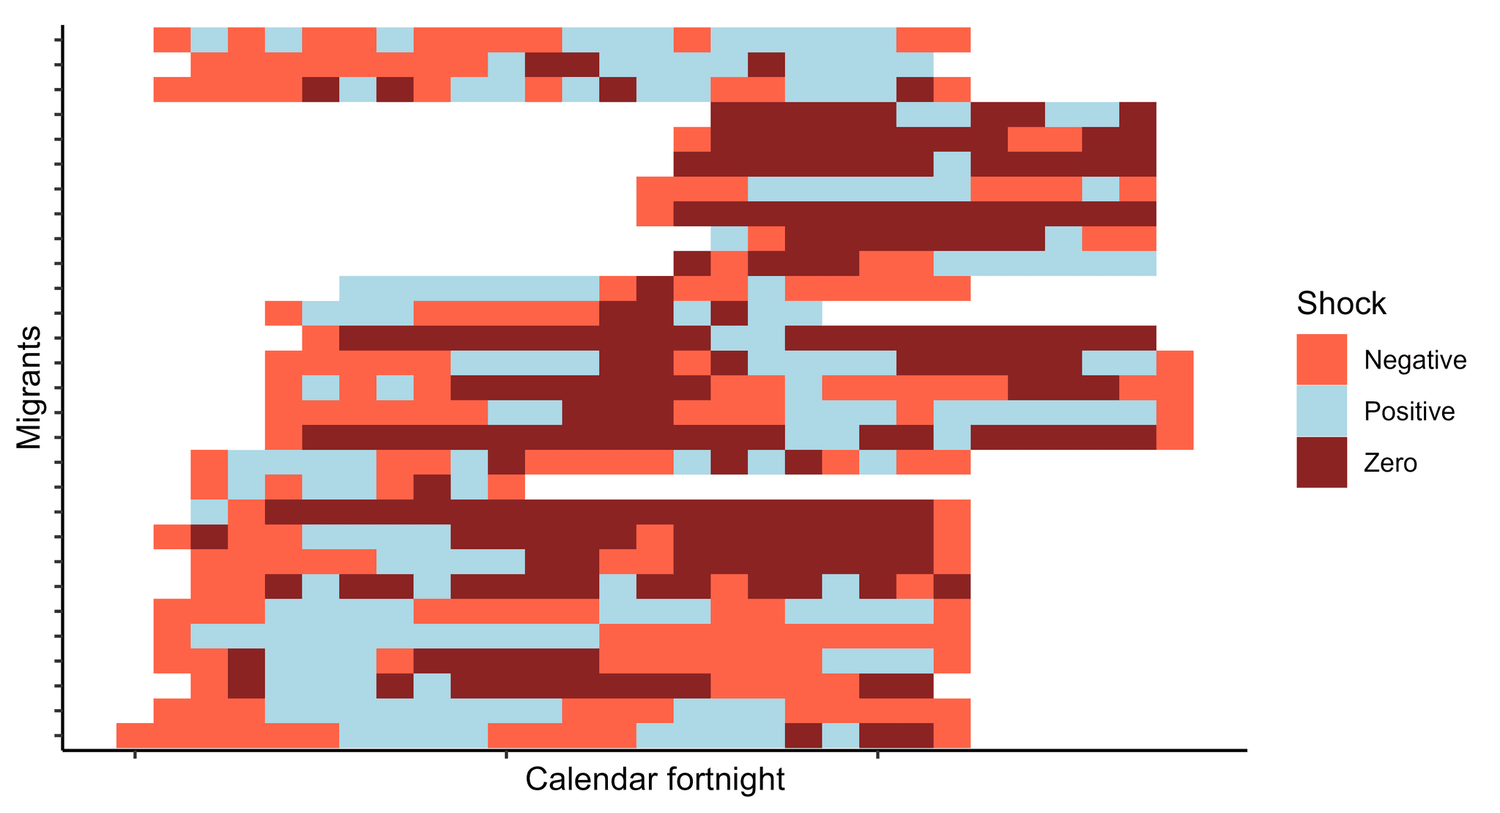
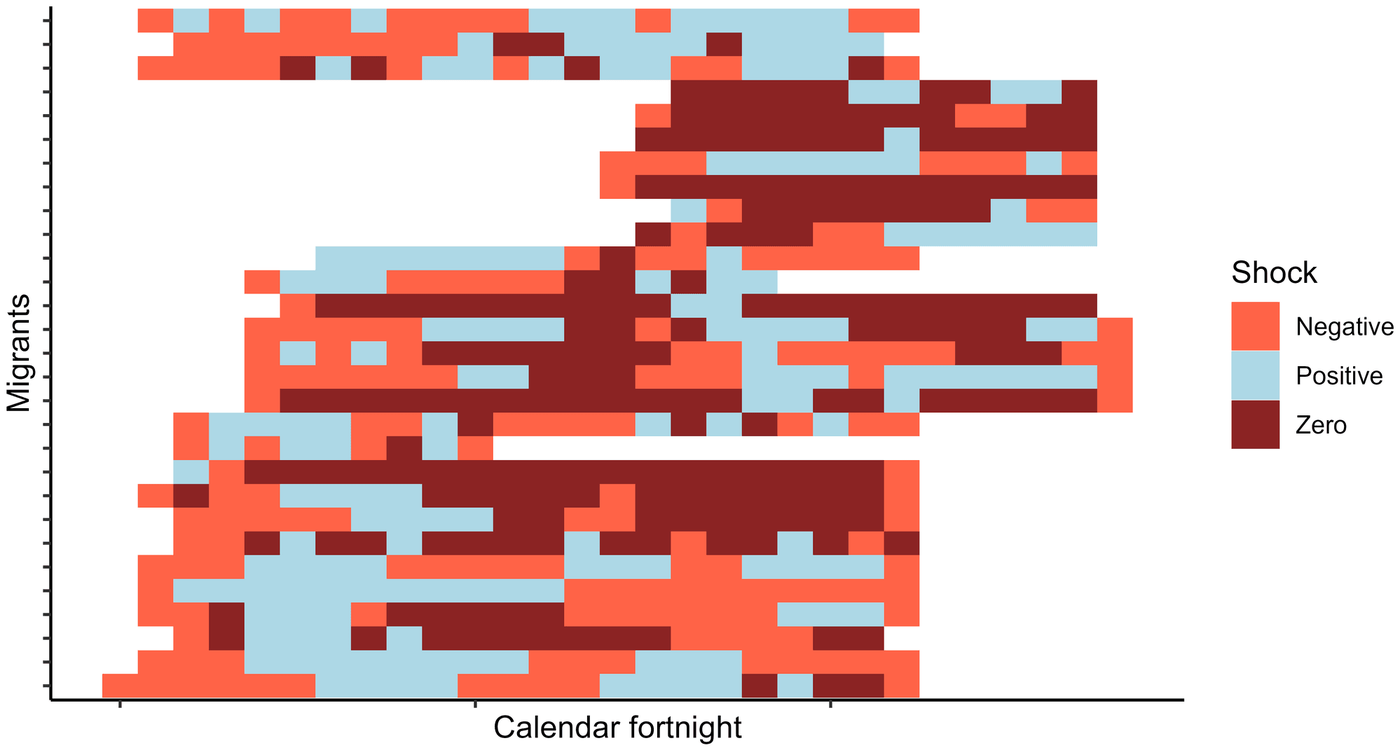
Story polish: blend fig1 into page bg, center the quote mid-story, add drop cap
- Recolor fig1's white background to the page cream so it no longer reads as a
  white slab (fig2 left as-is).
- Move the pull quote into the middle as a centered statement between sections.
- Add a drop cap to open the story body.

diff --git a/assets/css/site.css b/assets/css/site.css
@@ -582,6 +582,28 @@ figcaption, .figcredit {
   max-width: none;
   margin: 0;
 }
+/* centered statement-style quote for mid-story placement */
+.pullquote--center {
+  border-left: none;
+  padding: 1.4rem 0;
+  margin: 3.6rem 0;
+  text-align: center;
+  border-top: 1px solid var(--border);
+  border-bottom: 1px solid var(--border);
+}
+.pullquote--center p { font-size: clamp(1.7rem, 3.6vw, 2.6rem); max-width: 24ch; margin: 0 auto; }
+.pullquote--center p::before { content: ''; }
+
+/* drop cap opening the story body */
+.story__body > p:first-of-type::first-letter {
+  font-family: var(--font-display);
+  font-weight: 600;
+  font-size: 3.3em;
+  line-height: 0.78;
+  float: left;
+  margin: 0.06em 0.12em 0 0;
+  color: var(--accent);
+}
 
 /* source / disclosure box at the end */
 .story__source {

diff --git a/content/stories/palm-workers.md b/content/stories/palm-workers.md
@@ -20,7 +20,6 @@ budget_bar:
     - {label: Saved, value: 919, color: "#a85d3a"}
     - {label: Spent in Australia, value: 566, color: "#6f6c5f"}
     - {label: Sent home, value: 459, color: "#c79a7e"}
-pull_quote: Negative shocks are passed through to families immediately, while positive shocks tend to be absorbed by the migrant.
 paper_url: https://devpolicy.org/publications/negative-shocks-travel-home/
 paper_title: "Negative shocks travel home"
 source_url: https://devpolicy.org/palm-workers-save-more-than-you-think-but-bad-weeks-still-hit-home-20260518/
@@ -44,6 +43,10 @@ Higher earnings do not translate into proportionally larger transfers. Workers w
   <img src="../assets/images/stories/fig1-incomes-remittances.png" alt="Density plots of fortnightly income and remittances">
   <figcaption>Figure 1. Fortnightly income sits well above remittances (top panel). The remittance distribution looks much the same whether the worker earns below or above median income (bottom panel): higher earners save the surplus rather than send proportionally more. Source: Edwards and Stambolie.</figcaption>
 </figure>
+
+<blockquote class="pullquote pullquote--center">
+  <p>&ldquo;Negative shocks are passed through to families immediately, while positive shocks tend to be absorbed by the migrant.&rdquo;</p>
+</blockquote>
 
 ## Bad weeks hit home, good weeks do not
 